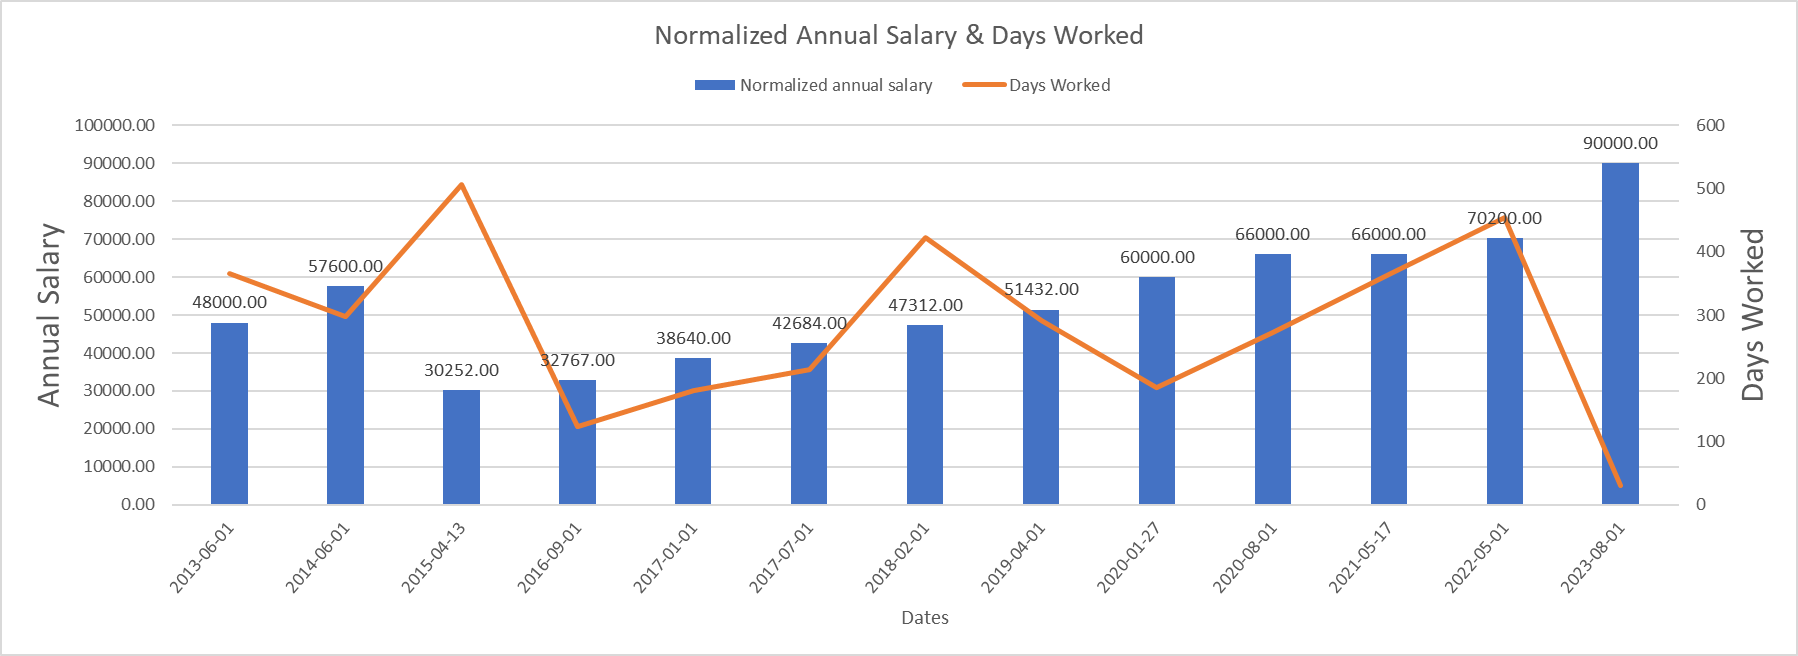
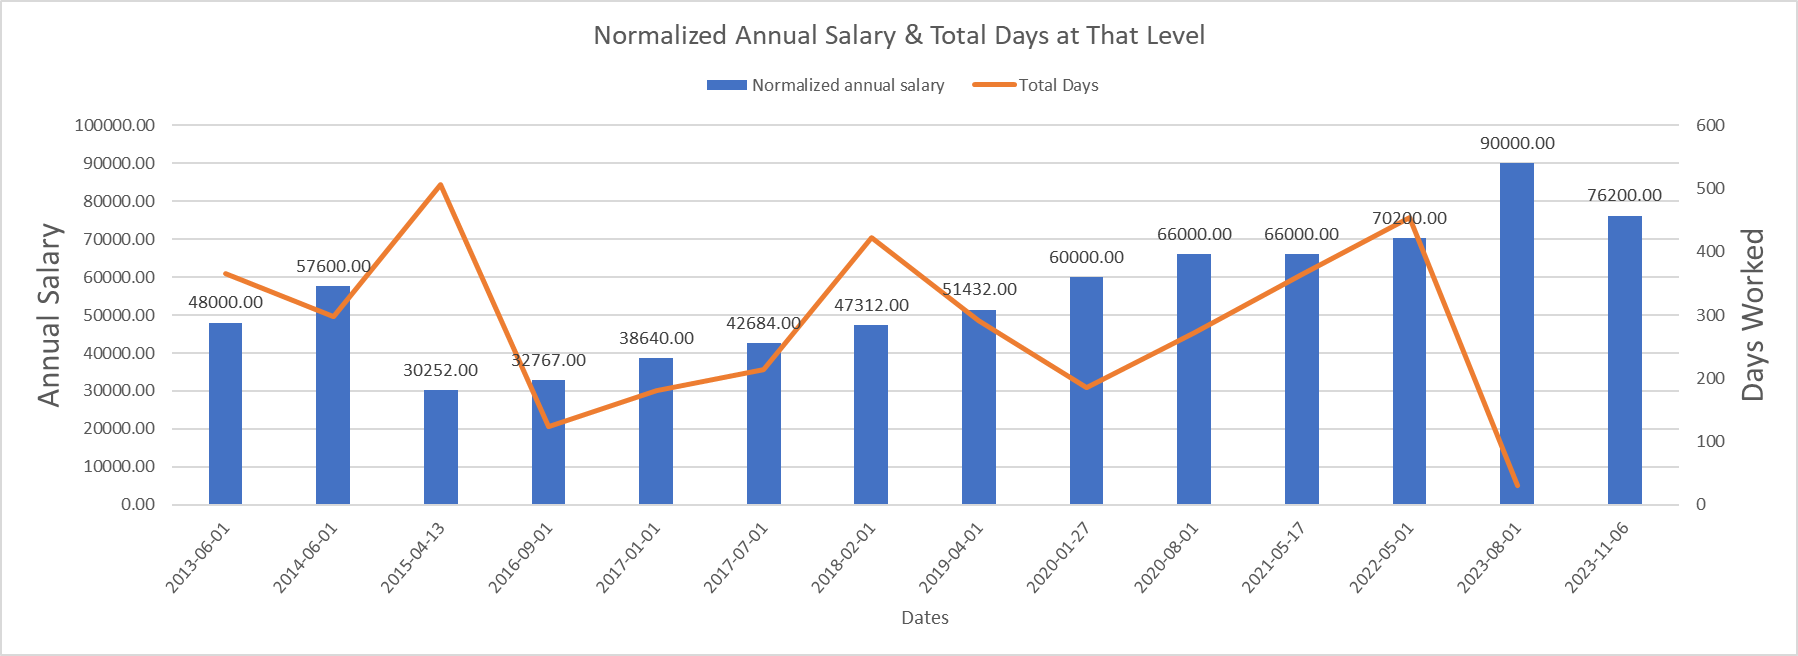
Update salary page, minor readme updates for my own benefit

diff --git a/content/pages/salary-transparency.md b/content/pages/salary-transparency.md
@@ -11,7 +11,7 @@ This page lists the salary for every job I've ever had in tech. That includes ra
 
 This is strongly inspired by a combination of two things. 
 
-First, a past employers philosophy around internal salary information. The default was to ask every employee, upon joining, if they'd like their salary to be shared within the company, on a page in the internal wiki, viewable by anyone. Employees were encouraged to do this, and a culture of speaking honestly about salaries was the norm. I no longer work there, and do not know if that's still true, but I hope it is.
+First, a past employer's philosophy around internal salary information. The default was to ask every employee, upon joining, if they'd like their salary to be shared within the company, on a page in the internal wiki, viewable by anyone. Employees were encouraged to do this, and a culture of speaking honestly about salaries was the norm. I no longer work there, and do not know if that's still true, but I hope it is.
 
 Second, [Xe Iaso's sharing of xer own salaries](https://xeiaso.net/salary-transparency). As Xe says on xer page, one of the ways of fighting pay discrimination is making hiding it impossible. I'm hoping that adding a little bit of knowledge to the pool can help everyone be better informed about how much they're worth.
 
@@ -22,21 +22,22 @@ For some of the positions, there are extra details to how I was compensated beyo
 
 <section class="salary-table" markdown="1">
 
-Title | Start Date | End Date | Days Worked | Salary | How I Left
+Title | Start Date | End Date | Total Days | Salary | How I Left
 ------|------------|----------|-------------|--------|-----------
-Software Engineer | 2013-06-01 | 2014-06-01 | 365 | $25 USD / hr | Raise
------ | 2014-06-02 | 2015-03-26 | 297 | $30 USD / hr | Quit
-Software Developer | 2015-04-13 | 2016-08-31 | 506 | <details><summary>€2521 EUR / month</summary>+ an extra percentage bonus if company-wide profits exceeded a threshold</details> | Promoted (no title change)
------ | 2016-09-01 | 2016-12-31 | 123 | <details><summary>€2723 EUR / month</summary>+ an extra percentage bonus if company-wide profits exceeded a threshold</details> | Promoted (no title change)
------ | 2017-01-01 | 2017-06-30 | 180 | <details><summary>€3220 EUR / month</summary>+ an extra percentage bonus if company-wide profits exceeded a threshold</details> | Promoted (no title change)
------ | 2017-07-01 | 2018-01-31 | 214 | <details><summary>€3557 EUR / month</summary>+ an extra percentage bonus if company-wide profits exceeded a threshold</details> | Promoted (no title change)
------ | 2018-02-01 | 2019-03-31 | 423 | <details><summary>€3943 EUR / month</summary>+ an extra percentage bonus if company-wide profits exceeded a threshold</details> | Promoted (no title change)
------ | 2019-04-01 | 2020-01-17 | 291 | <details><summary>€4286 + €200 EUR / month</summary>"Up to 200" was paid out (or not) based on company performance + an extra percentage bonus if company-wide profits exceeded a threshold</details> | Quit
-Senior Server Software Engineer | 2020-01-27 | 2020-07-31 | 186 | <details><summary>€5000 EUR / month</summary> + Options with 4 yr vesting</details> | Raise
------ | 2020-08-01 | 2021-04-30 | 272 | <details><summary>€5500 EUR / month</summary> + Options with 4 yr vesting</details> | Quit
-Senior Software Developer | 2021-05-17 | 2022-04-30 | 364 | €5500 EUR / month | Raise
------ | 2022-05-01 | 2023-07-30 | 455 | €5850 EUR / month | Quit
-Senior Developer | 2023-08-01 | 2023-08-31 | 30 | <details><summary>€7500 EUR / month</summary>This was a freelance position, so the higher rate hides some extra social insurance taxes and fees.</details> | Contract terminated
+Software Engineer | 2013-06-01 | 2014-06-01 | 365 | $25 / hr | Raise
+----- | 2014-06-02 | 2015-03-26 | 297 | $30 / hr | Quit
+Software Developer | 2015-04-13 | 2016-08-31 | 506 | <details><summary>€2521 / month</summary>+ an extra percentage bonus if company-wide profits exceeded a threshold</details> | Promoted (no title change)
+----- | 2016-09-01 | 2016-12-31 | 123 | <details><summary>€2723 / month</summary>+ an extra percentage bonus if company-wide profits exceeded a threshold</details> | Promoted (no title change)
+----- | 2017-01-01 | 2017-06-30 | 180 | <details><summary>€3220 / month</summary>+ an extra percentage bonus if company-wide profits exceeded a threshold</details> | Promoted (no title change)
+----- | 2017-07-01 | 2018-01-31 | 214 | <details><summary>€3557 / month</summary>+ an extra percentage bonus if company-wide profits exceeded a threshold</details> | Promoted (no title change)
+----- | 2018-02-01 | 2019-03-31 | 423 | <details><summary>€3943 / month</summary>+ an extra percentage bonus if company-wide profits exceeded a threshold</details> | Promoted (no title change)
+----- | 2019-04-01 | 2020-01-17 | 291 | <details><summary>€4286 + €200 / month</summary>"Up to 200" was paid out (or not) based on company performance + an extra percentage bonus if company-wide profits exceeded a threshold</details> | Quit
+Senior Server Software Engineer | 2020-01-27 | 2020-07-31 | 186 | <details><summary>€5000 / month</summary> + Options with 4 yr vesting</details> | Raise
+----- | 2020-08-01 | 2021-04-30 | 272 | <details><summary>€5500 / month</summary> + Options with 4 yr vesting</details> | Quit
+Senior Software Developer | 2021-05-17 | 2022-04-30 | 364 | €5500 / month | Raise
+----- | 2022-05-01 | 2023-07-30 | 455 | €5850 / month | Quit
+Senior Developer | 2023-08-01 | 2023-08-31 | 30 | <details><summary>€7500 / month</summary>This was a freelance position, so the higher rate hides some extra social insurance taxes and fees.</details> | Contract terminated
+Lead Software Engineer | 2023-11-06 | N/A | N/A | <details><summary>€6350 / month</summary>+ up to 10% annual bonus</details> | N/A
 
 </section>
 
@@ -46,7 +47,7 @@ Here's the above data, graphed:
 
 The salaries have been normalized to total annual values, but have not been converted between currencies. As such, the first two values are in USD, while the rest are in EUR.
 
-"Days worked" is, as above, not the amount of days I performed my job, but the amount of days I stayed at a particular salary level.
+"Total Days" is, as above, not the amount of days I performed my job, but the amount of days I stayed at a particular salary level.
 
 ## In closing
 I'll try to keep this page updated whenever this information changes. 

diff --git a/README.md b/README.md
@@ -10,6 +10,8 @@ The source files behind my Travel Neil blog.
  * The Azure Functions Core Tools installed. Probably the .NET SDK?
 
 ### How-to:
+ * `python -m venv ./venv`
+ * `./.venv/Scripts/Activate.ps1` (or the platform-appropriate equivalent)
  * `pip install -r requirements.txt`
  * Start the local version of the Azure Functions backend by navigating to `/backend` and running `func start`.
  * Run `pelserve.ps1` to run a small HTTP server that serves up the `./output` directory.
@@ -22,6 +24,7 @@ The source files behind my Travel Neil blog.
 Requirements for Azure upload: 
  * AzCopy: https://docs.microsoft.com/en-us/azure/storage/common/storage-use-azcopy
  * An environment variable named `TravelNeilAzureKey` that contains one of the Azure access keys for the storage account that hosts the website.
+ * If login has expired, use `azcopy login`
 
  ### Writing posts
  `{static}` must have a leading slash, i.e. `{sttaic}/path-relative-to-content`.
